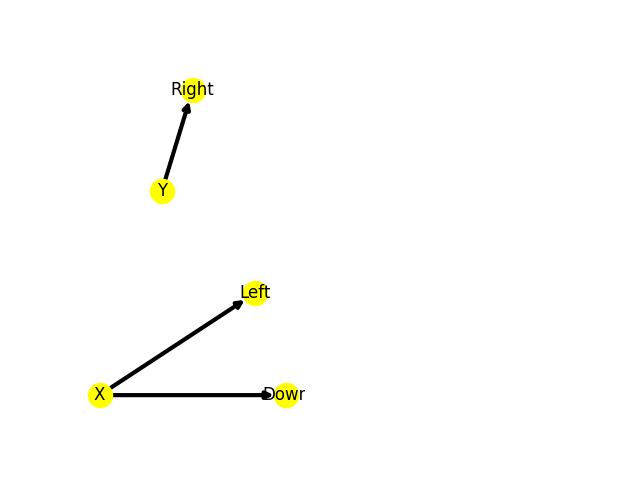
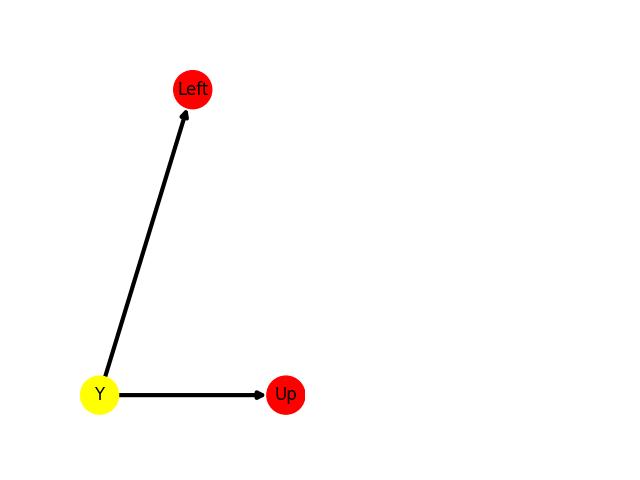
It actually works

diff --git a/ghevolution/world.py b/ghevolution/world.py
@@ -4,7 +4,7 @@ import brain_view
 from functools import reduce
 from enum import Enum
 from math import floor
-from random import randrange
+from random import random, randrange
 import neural_network
 import genome
 from dataclasses import dataclass
@@ -18,41 +18,6 @@ class Cell(Enum):
     ORG = 1
 
 
-class org_iter():
-    def __init__(self, brains, positions):
-        self.brains = brains
-        self.positions = positions
-        self.pos_index = 0  # offset by one
-        self.brain_idx_start = 0
-        self.brain_index = 0
-
-    def __iter__(self):
-        return self
-
-    def __next__(self):
-        if self.brain_index < len(self.brains) and self.pos_index < len(self.positions):
-            n = self.brains[self.brain_index][1]
-            tup = (self.positions[self.pos_index],
-                   *self.brains[self.brain_index])
-            self.pos_index += 1
-            if self.brain_idx_start + n < self.pos_index:
-                self.brain_index += 1
-                self.brain_idx_start += n
-            return tup
-        else:
-            raise StopIteration
-
-
-def for_each_org(brains, positions, f):
-    num = 0
-    pos_index = 0
-    for brain, n, gene in brains:
-        for i in range(n):
-            num += f(brain, gene, positions[pos_index + i], pos_index + i)
-        pos_index += n
-    return num
-
-
 def crossover(gene1, gene2):
     crossover_pt = randrange(TOTAL_BYTES * 2)
     new1 = gene1[:crossover_pt] + gene2[crossover_pt:]
@@ -60,29 +25,31 @@ def crossover(gene1, gene2):
     return (new1, new2)
 
 
-def start_generation(genes, gen_num, num_s, should_display=False):
+def start_generation(genes, gen_num):
 
     # Remove duplicate genes
-    brains = [(neural_network.generate(g), floor(NUM_ORGANISMS * n / num_s), g)
-              for g, n in genes.items()]
-    # positions = np.zeros((Y_SIZE, X_SIZE), dtype=np.short)
-    positions = []
-    for i in range(NUM_ORGANISMS):
-        # Randomize position for each organism at start
-        # positions[randrange(Y_SIZE)][randrange(X_SIZE)] = Cell.ORG.value
-        positions.append(Point(randrange(X_SIZE), randrange(Y_SIZE)))
+    # brains = [(neural_network.generate(g), floor(NUM_ORGANISMS * n / num_s), g)
+    #           for g, n in genes.items()]
+    # # positions = np.zeros((Y_SIZE, X_SIZE), dtype=np.short)
+    # positions = []
+    # for i in range(NUM_ORGANISMS):
+    #     # Randomize position for each organism at start
+    #     # positions[randrange(Y_SIZE)][randrange(X_SIZE)] = Cell.ORG.value
+    #     positions.append(Point(randrange(X_SIZE), randrange(Y_SIZE)))
+    brains = [(neural_network.generate(gene), gene) for gene in genes]
+    positions = [Point(randrange(X_SIZE), randrange(Y_SIZE))
+                 for _ in range(NUM_ORGANISMS)]
 
-    if gen_num <= 5 or gen_num % (NUM_GENERATIONS // 2) == 0 or gen_num >= NUM_GENERATIONS - 3:
-        should_display = True
-    if should_display:
+    is_displaying = False
+    if SHOULD_DISPLAY and (gen_num <= 5 or gen_num % (NUM_GENERATIONS // 2) == 0 or gen_num >= NUM_GENERATIONS - 3):
+        is_displaying = True
         screen = world_view.init_display()
 
     for i in range(STEPS_PER_GEN):
         # we are currying the step function to send more info
         step(brains, positions)
-        if should_display:
-            world_view.update_display(
-                screen, for_each_org, brains, positions, gen_num)
+        if is_displaying:
+            world_view.update_display(screen, brains, positions, gen_num)
 
     return get_survivors(brains, positions)
 
@@ -100,22 +67,46 @@ def get_survivors(brains, positions):
     # Mutate list to hold proportions, not ints
     # for gene, num in surviving_genes.items():
     #     surviving_genes[gene] = num / total_survivors
-    def f(brain, gene, pos, i):
-        n = 0
+    total_survivors = 0
+    for (_brain, gene), pos in zip(brains, positions):
         if survivor_condition(pos):
             # the ones that surive, their genes are added
             if gene not in surviving_genes:
                 surviving_genes[gene] = 0
             surviving_genes[gene] += 1
-            n += 1
-        return n
-    total_survivors = for_each_org(brains, positions, f)
+            total_survivors += 1
 
-    return (surviving_genes, total_survivors)
+    sorted_genes = sorted(
+        surviving_genes, key=surviving_genes.get, reverse=True)
+    best_genes = []
+    for i, gene in enumerate(sorted_genes):
+        if i % 2 == 1 and len(best_genes) < NUM_ORGANISMS:
+            (new1, new2) = crossover(sorted_genes[i - 1], gene)
+            best_genes.append(new1)
+            best_genes.append(new2)
+
+    # the above for loop is not guaranteed to fill everything for the next
+    # generation so we just reuse the best genes from the last
+    i = 0
+    while len(best_genes) < NUM_ORGANISMS and i < len(sorted_genes):
+        best_genes.append(sorted_genes[i])
+        i += 1
+
+    # If we still need more we just fill it randomly
+    while len(best_genes) < NUM_ORGANISMS:
+        best_genes.append(genome.generate())
+
+    # last param is best gene
+    return (best_genes, total_survivors, sorted_genes[0])
+
+
+# UNUSED
+def fitness_score(position):
+    return position.x
 
 
 def survivor_condition(position):
-    return position.x < LEFT_BOUND
+    return position.x < LEFT_BOUND and position.y < TOP_BOUND
 
 
 # ITS A GLOBAL var i know but we want performance
@@ -128,7 +119,7 @@ def step(brains, positions):
     for p in positions:
         position_grid[p.y][p.x] = Cell.ORG.value
 
-    def step_org(brain, _, pos, i):
+    for i, ((brain, gene), pos) in enumerate(zip(brains, positions)):
         actions = neural_network.think(brain, pos)
         for action in actions:
             p = action_funcs[action](pos)
@@ -136,7 +127,3 @@ def step(brains, positions):
             if position_grid[p.y][p.x] != Cell.ORG.value:
                 position_grid[p.y][p.x] = Cell.ORG.value
                 positions[i] = p
-        # stupid state code stuff
-        return 0
-
-    for_each_org(brains, positions, step_org)

diff --git a/ghevolution/world_view.py b/ghevolution/world_view.py
@@ -19,26 +19,27 @@ def init_display():
     return pygame.display.set_mode(display_size)
 
 
-def update_display(screen, for_each_org, brains, positions, gen_num):
+def update_display(screen, brains, positions, gen_num):
     global font
     for event in pygame.event.get():
         if event.type == pygame.QUIT:
             sys.exit()
     screen.fill(black)
     pygame.draw.line(screen, (255, 255, 255), (LEFT_BOUND * CELL_SIZE, 0),
-                     (LEFT_BOUND * CELL_SIZE, display_size[1]), 2)
+                     (LEFT_BOUND * CELL_SIZE, TOP_BOUND * CELL_SIZE), 2)
+    pygame.draw.line(screen, (255, 255, 255), (0, TOP_BOUND * CELL_SIZE),
+                     (LEFT_BOUND * CELL_SIZE, TOP_BOUND * CELL_SIZE), 2)
 
     text = font.render("Generation: " + str(gen_num), True, (255, 255, 255))
     textRect = text.get_rect()
     textRect.center = (display_size[1] // 2, 20)
 
-    def render_org(_, gene, pos, i):
+    for (brain, gene), pos in zip(brains, positions):
         hex_nums = [int(''.join(item), 16) for item in zip(*[iter(gene)] * 8)]
         screen.fill(pygame.Color(floor(sum(hex_nums)/len(hex_nums))), pygame.Rect(
             pos.x * CELL_SIZE, pos.y * CELL_SIZE, CELL_SIZE, CELL_SIZE))
-        return 0
+
     # We love dependency injection!
-    for_each_org(brains, positions, render_org)
     screen.blit(text, textRect)
     pygame.display.flip()
     pygame.time.delay(STEP_DISPLAY_TIME)

diff --git a/ghevolution/__main__.py b/ghevolution/__main__.py
@@ -6,34 +6,15 @@ import neural_network
 import world
 import world_view
 import brain_view
-
-
-def show_gen_survivors(gen_num, survivor_list):
-    plt.subplot(232)
-    plt.plot(gen_num, survivor_list)
-    plt.title = "Survivors vs Generation"
-    plt.xlabel = "Generation Num"
-    plt.ylabel = "Number of Survivors"
-    plt.savefig('survivors_graph.png')
-
-
-def show_best_brain(genes):
-    best_n = 0
-    best_gene = ""
-    for gene, n in genes.items():
-        if n > best_n:
-            best_gene = gene
-            best_n = n
-    brain_view.draw_brain(neural_network.generate(best_gene, True))
+import survivor_plot
 
 
 if __name__ == "__main__":
-    genes = {genome.generate(): 1 for i in range(NUM_ORGANISMS)}
+    genes = [genome.generate() for _ in range(NUM_ORGANISMS)]
     gen_num = list(range(NUM_GENERATIONS))
-    num_s = NUM_ORGANISMS
     survivor_list = [0] * NUM_GENERATIONS
     for i in range(NUM_GENERATIONS):
-        (genes, num_s) = world.start_generation(genes, i, num_s)
+        (genes, num_s, best_gene) = world.start_generation(genes, i)
         survivor_list[i] = num_s
-    show_best_brain(genes)
-    show_gen_survivors(gen_num, survivor_list)
+    brain_view.draw_brain(best_gene)
+    survivor_plot.show_gen_survivors(gen_num, survivor_list)

diff --git a/ghevolution/brain_view.py b/ghevolution/brain_view.py
@@ -2,23 +2,29 @@ import matplotlib.pyplot as plt
 import networkx as nx
 import actions
 import senses
+import neural_network
 
 options = {
-    'node_color': 'yellow',
-    'node_size': 300,
+    'node_size': 750,
     'width': 3,
     'arrows': True,
     'with_labels': True,
 }
 
 
-def draw_brain(brain):
+def draw_brain(gene):
+    brain = neural_network.generate(gene)
     g = nx.DiGraph()
     for to_id, inputs in brain.items():
         for from_id, weight in inputs:
             g.add_edge(senses.display_names[senses.Senses(from_id)], actions.display_names[actions.Actions(
                 to_id)], weight=weight)
-
-    plt.subplot(121)
-    nx.draw_planar(g, **options)
+    colors = []
+    for node in g:
+        if node in senses.display_names.values():
+            colors.append('yellow')
+        else:
+            colors.append('red')
+    plt.subplot(1, 2, 1)
+    nx.draw_planar(g, node_color=colors, **options)
     plt.savefig('brain_graph.png')

diff --git a/ghevolution/settings.py b/ghevolution/settings.py
@@ -7,7 +7,7 @@ WEIGHT_DIV = 10000
 NUM_ORGANISMS = 300
 STEPS_PER_GEN = 300
 CELL_SIZE = 8
-NUM_GENERATIONS = 100
+NUM_GENERATIONS = 10
 CONN_FORMAT = 'u8u8s16'
 CONN_SIZE = bitstruct.calcsize(CONN_FORMAT)
 CONN_NUM = 3
@@ -15,6 +15,8 @@ TOTAL_BYTES = CONN_SIZE // 8 * CONN_NUM
 INNER_NEURONS = 1
 MUTATION_CHANCE = 0.05
 STEP_DISPLAY_TIME = 10  # millis
-LEFT_BOUND = 20
+LEFT_BOUND = X_SIZE
+TOP_BOUND = 20
+SHOULD_DISPLAY = False
 
 Point = namedtuple("Point", "x, y")

diff --git a/ghevolution/survivor_plot.py b/ghevolution/survivor_plot.py
@@ -1,0 +1,12 @@
+from matplotlib import pyplot as plt
+
+
+def show_gen_survivors(gen_num, survivor_list):
+    ax1 = plt.subplot(5, 5, 2)
+    plt.figure(figsize=(8, 6))
+    plt.fill_between(gen_num, survivor_list, alpha=0.5)
+    plt.plot(gen_num, survivor_list)
+    plt.title = "Survivors vs Generation"
+    plt.xlabel = "Generation Num"
+    plt.ylabel = "Number of Survivors"
+    plt.savefig('survivors_graph.png')

diff --git a/ghevolution/neural_network.py b/ghevolution/neural_network.py
@@ -7,10 +7,7 @@ from math import tanh
 from settings import *
 
 
-def generate(genes, dontMutate=False):
-    # There is a small chance the genes will mutate
-    if random() < MUTATION_CHANCE and not dontMutate:
-        genes = genome.mutate(genes)
+def generate(genes):
 
     brain = dict()
     for (from_num, to_num, raw_weight) in genome.decode(genes):
